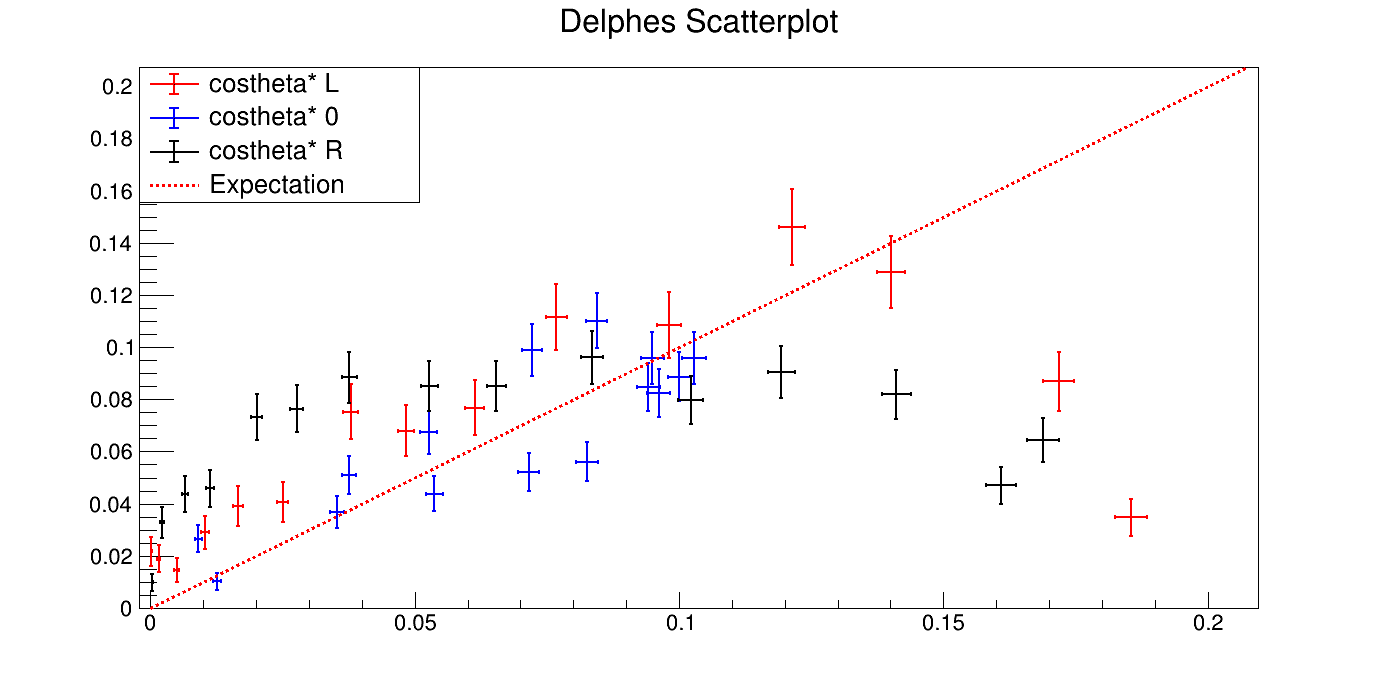
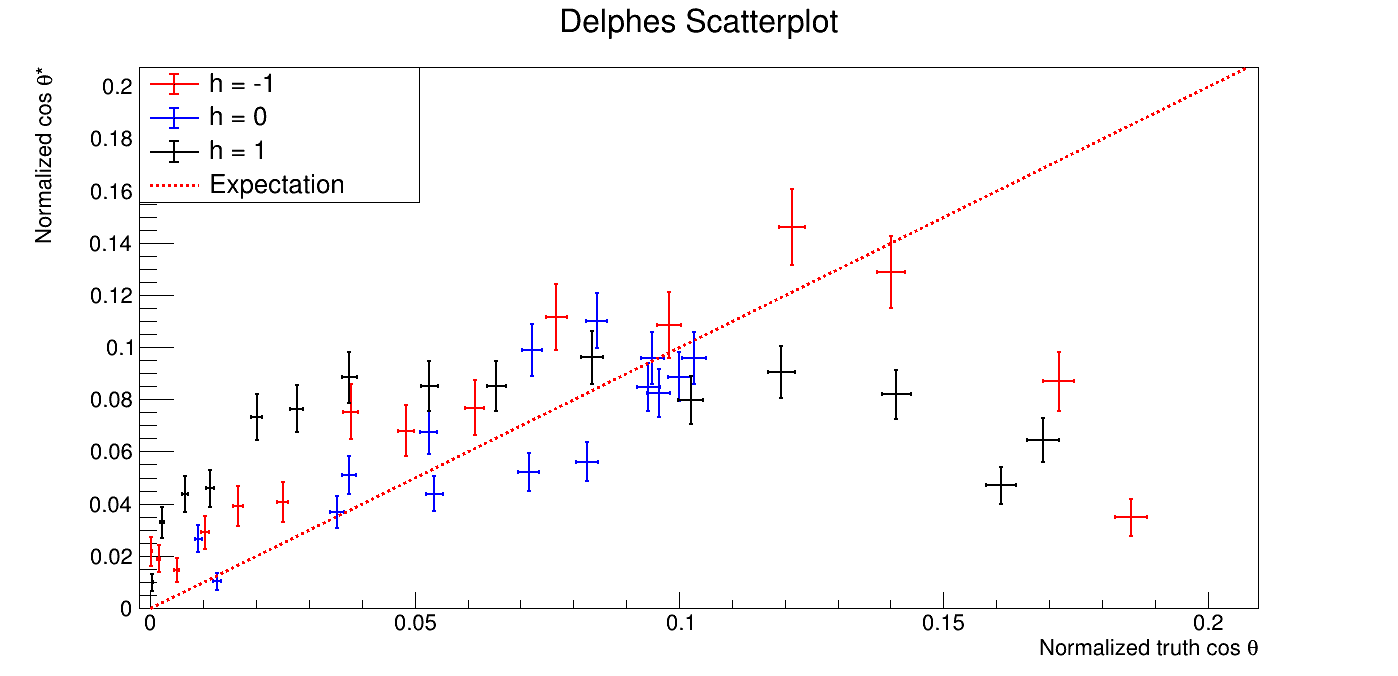
Add labels to the scatterplot

Changed region(s): [[0.1538, 0.0932, 0.2461, 0.2485], [0.7382, 0.932, 0.892, 0.9941], [0.0308, 0.2175, 0.0615, 0.2796]]

diff --git a/scatterplot/scatter.C b/scatterplot/scatter.C
@@ -125,6 +125,8 @@ void plot(){
 
     gL->GetXaxis()->SetRangeUser(-1, 1.0);
     gL->GetYaxis()->SetRangeUser(0, 0.207376);
+    gL->GetXaxis()->SetTitle("Normalized truth cos #theta");
+    gL->GetYaxis()->SetTitle("Normalized cos #theta*");
 
 
     TLine *line0 = make_diagonal_line(c0);
@@ -132,9 +134,12 @@ void plot(){
 
     TLegend* leg = new TLegend(0.1,0.7,0.3,0.9);
     //leg->SetHeader("cos theta* 0");
-    leg->AddEntry(gL,    "costheta* L", "lep");
-    leg->AddEntry(g0,    "costheta* 0", "lep");
-    leg->AddEntry(gR,    "costheta* R", "lep");
+    leg->AddEntry(gL,    "h = -1", "lep");
+    leg->AddEntry(g0,    "h = 0", "lep");
+    leg->AddEntry(gR,    "h = 1", "lep");
+    //leg->AddEntry(gL,    "costheta* L", "lep");
+    //leg->AddEntry(g0,    "costheta* 0", "lep");
+    //leg->AddEntry(gR,    "costheta* R", "lep");
     leg->AddEntry(line0, "Expectation","l r");
     leg->Draw();
 
